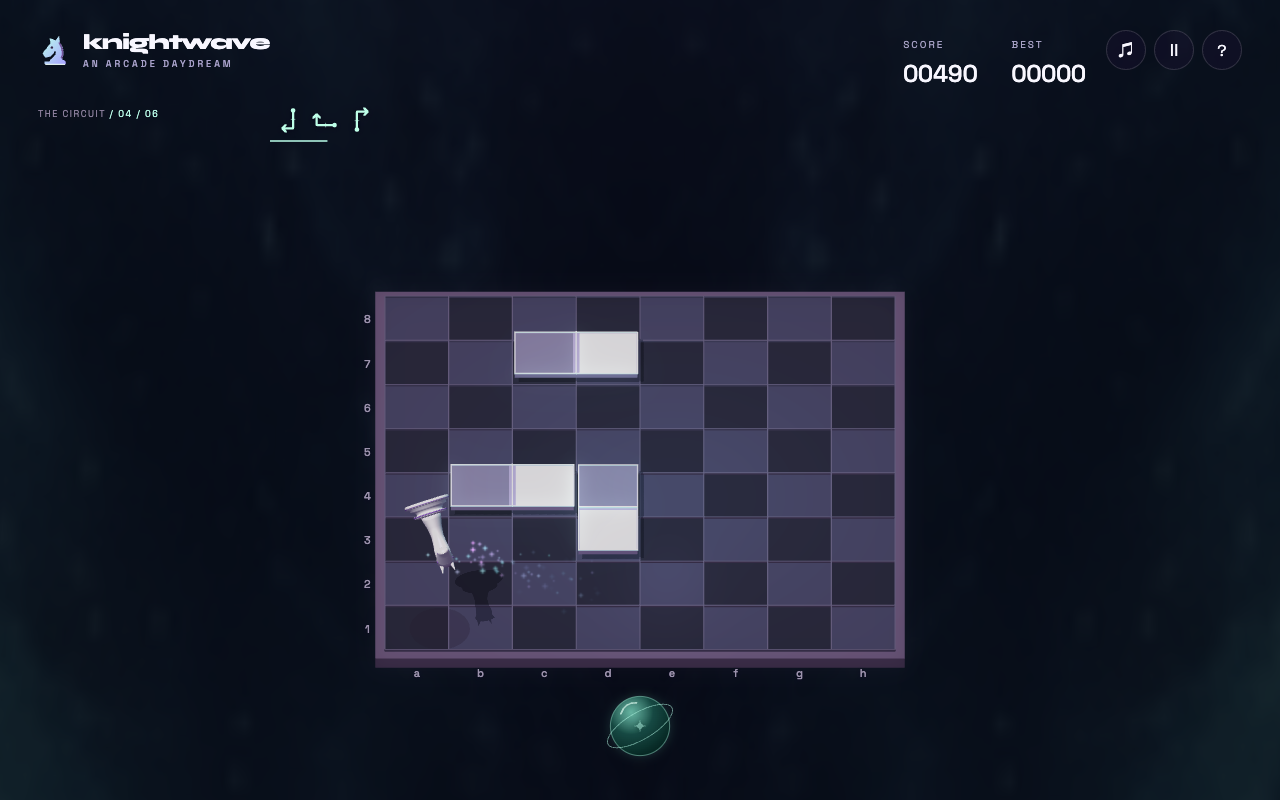
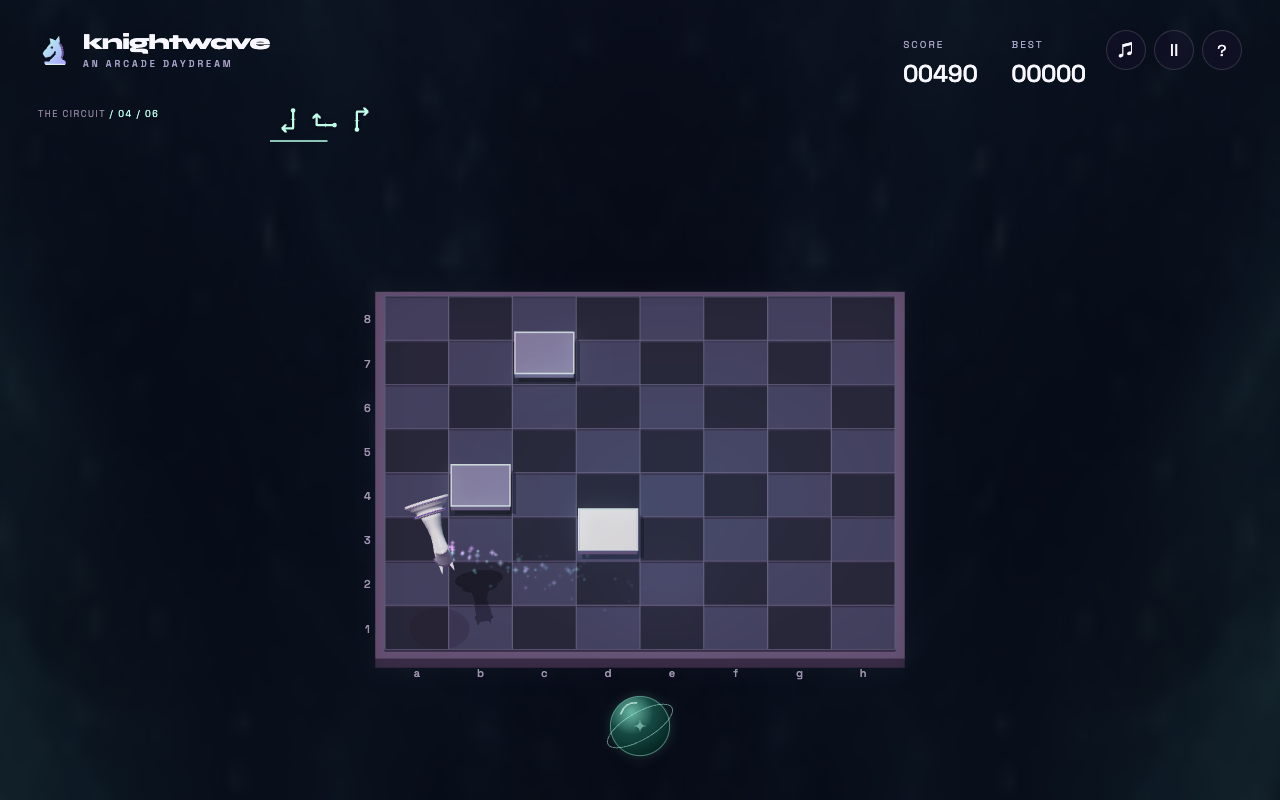
feat(game): simplify platforms to single chess squares

diff --git a/src/main.js b/src/main.js
@@ -18,7 +18,7 @@ import { Texture } from '@babylonjs/core/Materials/Textures/texture';
 import { ParticleSystem } from '@babylonjs/core/Particles/particleSystem';
 import { knightDestination, isLandingMatch, rotateGrid } from './rules.js';
 import { BOARD_MIN, BOARD_MAX, BOARD_CELLS, BOARD_CENTER, CELL_SIZE, createCircuit } from './board.js';
-import { PLATFORM_TOP, CRUISE_SPEED, platformStage, platformPose } from './platforms.js';
+import { PLATFORM_TOP, LANDING_DWELL, platformStage, platformPose } from './platforms.js';
 import {flightPose,trickPose} from './flight.js';
 import { moveGlyphs } from './moves.js';
 import { createKnight } from './knight.js';
@@ -86,7 +86,7 @@ jumpSparkles.blendMode=ParticleSystem.BLENDMODE_ADD;jumpSparkles.emitRate=0;jump
 const burstPieces=[];for(let i=0;i<20;i++){const m=MeshBuilder.CreateSphere('landing sparkle',{diameter:.16,segments:5},scene);m.material=i%2?mint:gold;m.setEnabled(false);burstPieces.push({mesh:m,velocity:new Vector3(),life:0});}
 const circuit=createCircuit(),premoves=new Premoves(circuit.length-1);
 let orbKick=0,sendFlash=0,orbScreen={x:0,y:0},gesture=null,progressElement=null;
-let mode='start',phase='cruise',current=0,selected=0,jumpTime=0,phaseTime=0,runTime=0,score=0,combo=0,landings=0,spinJuice=0,airDuration=1.25,tapKick=0,lastGuideKey='',lastLanding=null;
+let mode='start',phase='waiting',current=0,selected=0,jumpTime=0,phaseTime=0,runTime=0,score=0,combo=0,landings=0,spinJuice=0,airDuration=1.25,tapKick=0,lastGuideKey='',lastLanding=null;
 const GROUND=PLATFORM_TOP+.06;
 let best=0;try{best=Number(localStorage.getItem('knightwave-board-best')||0);}catch{}
 el('best').textContent=String(best).padStart(5,'0');
@@ -114,21 +114,17 @@ const platformAccent=material('platform edge','#b0e4d5',.55);
 const fallingAccent=material('departed platform rails','#ae6288',.25);
 const platforms=circuit.map((stop,i)=>{
   const root=new TransformNode('platform '+i,scene);root.position.set(stop.x*CELL_SIZE,PLATFORM_TOP,stop.z*CELL_SIZE);root.rotation.y=stop.heading;root.parent=board;
-  const length=stop.runLength*CELL_SIZE;
-  const deck=box('raised platform deck',3.7,.35,length+3.7,0,-.175,length/2,platformMaterials.occupied,root);
-  box('platform lift column',2.15,.55,length+2.1,0,-.625,length/2,platformMaterials.occupied,root);
+  const deck=box('raised platform deck',3.7,.35,3.7,0,-.175,0,platformMaterials.occupied,root);
+  box('platform lift column',2.15,.55,2.15,0,-.625,0,platformMaterials.occupied,root);
   const trims=[];
-  for(const side of [-1,1])trims.push(box('platform glow rail',.07,.07,length+3.7,side*1.86,.03,length/2,mint,root));
-  for(const z of [-1.85,length+1.85])trims.push(box('platform end rail',3.78,.07,.075,0,.03,z,mint,root));
-  for(let row=0;row<stop.runLength;row++)trims.push(box('raised square divider',3.78,.14,.08,0,.045,(row+.5)*CELL_SIZE,platformAccent,root));
-  const surfaces=[];
-  for(let row=0;row<=stop.runLength;row++){
-    const offset=rotateGrid({x:0,z:row},stop.heading),light=(stop.x+offset.x+stop.z+offset.z)%2!==0;
-    const square=box('raised chess square',3.58,.025,3.58,0,.01,row*CELL_SIZE,light?lightSquare:darkSquare,root);
-    square.receiveShadows=true;surfaces.push(square);glow.addExcludedMesh(square);
+  for(const side of [-1,1]){
+    trims.push(box('platform glow rail',.07,.07,3.7,side*1.86,.03,0,platformAccent,root));
+    trims.push(box('platform end rail',3.78,.07,.075,0,.03,side*1.85,platformAccent,root));
   }
+  const square=box('raised chess square',3.58,.025,3.58,0,.01,0,(stop.x+stop.z)%2!==0?lightSquare:darkSquare,root);
+  square.receiveShadows=true;glow.addExcludedMesh(square);
   for(const mesh of root.getChildMeshes())shadows.addShadowCaster(mesh);
-  return {root,deck,trims,surfaces,stage:null,age:0};
+  return {root,deck,trims,stage:null,age:0};
 });
 function updatePlatforms(dt,reset=false){
   for(let i=0;i<platforms.length;i++){
@@ -166,7 +162,7 @@ function fitBoardCamera(){
 function visible(id,on){el(id).classList.toggle('hidden',!on);}
 function setMode(next){mode=next;el('ui').className=mode==='start'?'start-mode':'playing-mode';visible('start-screen',mode==='start');visible('pause',mode==='playing'||mode==='paused');visible('run-label',mode!=='start');visible('touch-controls',mode==='playing');visible('move-queue',mode==='playing'||mode==='paused');visible('orb-send',mode==='playing'||mode==='paused');visible('gesture-caption',mode==='playing');}
 function start(){
-  premoves.reset();orbKick=0;sendFlash=0;gesture=null;current=0;lastLanding=null;selected=0;score=0;combo=0;landings=0;runTime=0;jumpTime=0;phaseTime=0;phase='cruise';trick.rotation.set(0,0,0);
+  premoves.reset();orbKick=0;sendFlash=0;gesture=null;current=0;lastLanding=null;selected=0;score=0;combo=0;landings=0;runTime=0;jumpTime=0;phaseTime=0;phase='waiting';trick.rotation.set(0,0,0);
   spinner.rotation.set(0,FORWARD_YAW,0);knight.scaling.setAll(1.38);tapKick=0;jumpSparkles.reset();jumpSparkles.start();airDuration=1.25;knight.position.copyFrom(worldCell(circuit[0]));
   el('score').textContent='00000';visible('modal',false);setMode('playing');audio.start().catch(()=>{});lastGuideKey='';updateGuides();updatePlatforms(0,true);fitBoardCamera();updateOrb(0);
 }
@@ -225,7 +221,7 @@ function modal(content){el('modal').innerHTML=`<div class="dialog" role="dialog"
 function pause(){if(mode==='playing'){setMode('paused');audio.stop();modal('<div class="eyebrow">TAKE A BREATHER</div><h2 id="dialog-title">Still in the groove.</h2><p>Your circuit will be right here.</p><button class="primary" id="resume">Keep riding <span>↗</span></button><button class="secondary" id="restart">Start a fresh run</button>');el('resume').onclick=resume;el('restart').onclick=start;}else if(mode==='paused')resume();}
 function resume(){visible('modal',false);setMode('playing');audio.start().catch(()=>{});el('world').focus();}
 function help(){const previous=mode;if(mode==='playing'){setMode('paused');audio.stop();}
-  modal('<div class="eyebrow">A KNIGHT TO REMEMBER</div><h2 id="dialog-title">Charge. Send. Jump.</h2><div class="how-steps"><span class="number">1</span><p>Bright platforms are raised and safe to land on. Dark squares sit below. Plan on the a–h, 1–8 chessboard.</p></div><div class="how-steps"><span class="number">2</span><p>Tap the left or right side, or use ← / →, to compose L moves in the energy orb between the controls. Two squares along the icon’s stem, one across its arrow. An opposite tap undoes a turn.</p></div><div class="how-steps"><span class="number">3</span><p>Swipe up or press Space to send one group for one platform. The orb clears for the next group. Your banner shows only moves you have sent; each divider separates platforms. You can also tap the orb to send.</p></div><div class="how-steps"><span class="number">4</span><p>The knight jumps at the edge using the next sent group. If none is ready, it waits for you. During a jump, compose later groups in the orb. Swipe down or press Backspace to clear a draft, then recall the last unstarted group. Escape pauses.</p></div><button class="primary" id="close-help">Got it <span>↗</span></button>');el('close-help').onclick=()=>{visible('modal',false);if(previous==='playing')resume();};}
+  modal('<div class="eyebrow">A KNIGHT TO REMEMBER</div><h2 id="dialog-title">Charge. Send. Jump.</h2><div class="how-steps"><span class="number">1</span><p>Bright platforms are raised and safe to land on. Dark squares sit below. Plan on the a–h, 1–8 chessboard.</p></div><div class="how-steps"><span class="number">2</span><p>Tap the left or right side, or use ← / →, to compose L moves in the energy orb between the controls. Two squares along the icon’s stem, one across its arrow. An opposite tap undoes a turn.</p></div><div class="how-steps"><span class="number">3</span><p>Swipe up or press Space to send one group for one platform. The orb clears for the next group. Your banner shows only moves you have sent; each divider separates platforms. You can also tap the orb to send.</p></div><div class="how-steps"><span class="number">4</span><p>The knight jumps from the center of its square using the next sent group. It pauses briefly after landing, and waits for you if no group is ready. During a jump, compose later groups in the orb. Swipe down or press Backspace to clear a draft, then recall the last unstarted group. Escape pauses.</p></div><button class="primary" id="close-help">Got it <span>↗</span></button>');el('close-help').onclick=()=>{visible('modal',false);if(previous==='playing')resume();};}
 function finish(won=false){
   setMode(won?'won':'over');jumpSparkles.emitRate=0;
   if(score>best){best=score;try{localStorage.setItem('knightwave-board-best',String(best));}catch{}el('best').textContent=String(best).padStart(5,'0');}
@@ -280,12 +276,10 @@ function update(dt){
   if(mode==='playing'){
     runTime+=dt;phaseTime+=dt;spinJuice=Math.max(0,spinJuice-dt*4);tapKick*=Math.exp(-dt*14);
     const origin=circuit[current];
-    if(phase==='cruise'){
-      const distance=Math.min(origin.runLength*CELL_SIZE,phaseTime*CRUISE_SPEED),offset=rotateGrid({x:0,z:distance},origin.heading);
-      knight.position.set(origin.x*CELL_SIZE+offset.x,GROUND+Math.sin(distance*2.6)*.025,origin.z*CELL_SIZE+offset.z);
-      spinner.rotation.y=FORWARD_YAW+origin.heading+tapKick;spinner.rotation.z=-tapKick*.25;spinner.rotation.x=-.06+Math.sin(distance*2.6)*.035;
-
-      if(distance>=origin.runLength*CELL_SIZE&&!beginJump()){phase='waiting';phaseTime=0;}
+    if(phase==='settle'){
+      knight.position.set(origin.x*CELL_SIZE,GROUND,origin.z*CELL_SIZE);
+      spinner.rotation.set(0,FORWARD_YAW+origin.heading+tapKick,-tapKick*.25);
+      if(phaseTime>=LANDING_DWELL&&!beginJump()){phase='waiting';phaseTime=0;}
     }else if(phase==='waiting'){
       knight.position.set(origin.launch.x*CELL_SIZE,GROUND+Math.sin(phaseTime*3)*.025,origin.launch.z*CELL_SIZE);spinner.rotation.y=FORWARD_YAW+origin.heading+tapKick;spinner.rotation.x=0;spinner.rotation.z=-tapKick*.25;
     }else if(phase==='air'){
@@ -300,19 +294,19 @@ function update(dt){
           lastLanding={x:knight.position.x,y:knight.position.y,z:knight.position.z};premoves.complete();current++;landings++;combo++;score+=100+combo*25+Math.abs(selected)*10;el('score').textContent=String(score).padStart(5,'0');
           burst();audio.land(combo);selected=0;trick.rotation.set(0,0,0);spinner.rotation.set(0,FORWARD_YAW+circuit[current].heading,0);updatePlatforms(0);
           if(current===circuit.length-1){finish(true);}
-          else{phase='cruise';phaseTime=0;lastGuideKey='';updateGuides();}
+          else{phase='settle';phaseTime=0;lastGuideKey='';updateGuides();}
         }else{phase='fall';phaseTime=0;audio.fall();}
       }
     }else if(phase==='fall'){knight.position.y-=dt*(6+phaseTime*12);if(phaseTime>.70)finish();}
   }
   if(mode==='playing'||mode==='start'||mode==='won'){
     updatePlatforms(dt);
-    const squash=phase==='cruise'?Math.max(0,1-phaseTime/.18)*.12:0;
+    const squash=phase==='settle'?Math.max(0,1-phaseTime/.18)*.12:0;
     knight.scaling.set(1.38*(1+squash/2),1.38*(1-squash),1.38*(1+squash/2));
     const abovePlatform=platforms.some((p,i)=>{
       if(!p.root.isEnabled()||p.stage==='falling'||p.root.position.y<PLATFORM_TOP-.1)return false;
-      const stop=circuit[i],local=rotateGrid({x:knight.position.x-stop.x*CELL_SIZE,z:knight.position.z-stop.z*CELL_SIZE},-stop.heading);
-      return Math.abs(local.x)<1.85&&local.z>-1.85&&local.z<stop.runLength*CELL_SIZE+1.85;
+      const stop=circuit[i];
+      return Math.abs(knight.position.x-stop.x*CELL_SIZE)<1.85&&Math.abs(knight.position.z-stop.z*CELL_SIZE)<1.85;
     });
     const surface=abovePlatform?PLATFORM_TOP+.05:-2.015,altitude=Math.max(0,knight.position.y-surface);
     shadow.position.set(knight.position.x,surface,knight.position.z);shadow.scaling.setAll(1.38+altitude*.06);
@@ -324,7 +318,7 @@ function update(dt){
 engine.runRenderLoop(()=>{const dt=Math.min(engine.getDeltaTime()/1000,.05);update(dt);scene.updateTransformMatrix();updateOrb(mode==='playing'?dt:0);scene.render();});
 scene.executeWhenReady(()=>{visible('loading',false);});
 document.fonts.ready.then(fitBoardCamera);
-const state=()=>({mode,phase,selected,draft:premoves.draft,draftHeading:premoves.draftHeading(circuit[current].heading),locked:premoves.locked,orb:{x:orbScreen.x,y:orbScreen.y,location:'ui'},target:circuit[current+1]?.turns,jump:landings+1,score,combo,landings,totalLandings:circuit.length-1,lastLanding,position:{x:knight.position.x,y:knight.position.y,z:knight.position.z},planning:phase==='waiting'?1:Math.min(1,phaseTime*CRUISE_SPEED/(circuit[current].runLength*CELL_SIZE)),airtime:jumpTime/airDuration,audio:{state:audio.ctx?.state,muted:audio.muted,steps:audio.step},fps:Math.round(engine.getFps()),meshes:scene.meshes.length,cellSize:CELL_SIZE,board:{min:BOARD_MIN,max:BOARD_MAX,cells:cells.length,extent:boardWidth/2},heading:circuit[current]?.heading,landingHeading:circuit[current+1]?.heading,launch:{x:circuit[current].launch.x*CELL_SIZE,z:circuit[current].launch.z*CELL_SIZE},landing:circuit[current+1]?{x:circuit[current+1].x*CELL_SIZE,z:circuit[current+1].z*CELL_SIZE}:null,render:{width:engine.getRenderWidth(),height:engine.getRenderHeight()},platforms:platforms.map((p,i)=>({index:i,stage:p.stage,height:p.root.position.y,visible:p.root.isEnabled()})),speed:CRUISE_SPEED,moveQueue:premoves.groups.map(g=>({...g})),camera:{x:camera.position.x,y:camera.position.y,z:camera.position.z,rotation:{x:camera.rotation.x,y:camera.rotation.y,z:camera.rotation.z},orthographic:camera.mode===Camera.ORTHOGRAPHIC_CAMERA},knightYaw:spinner.rotation.y,trick:{yaw:trick.rotation.y,roll:trick.rotation.z,pitch:trick.rotation.x},platformTop:PLATFORM_TOP,glow:glow.intensity,sparkles:jumpSparkles.getActiveCount()});
+const state=()=>({mode,phase,selected,draft:premoves.draft,draftHeading:premoves.draftHeading(circuit[current].heading),locked:premoves.locked,orb:{x:orbScreen.x,y:orbScreen.y,location:'ui'},target:circuit[current+1]?.turns,jump:landings+1,score,combo,landings,totalLandings:circuit.length-1,lastLanding,position:{x:knight.position.x,y:knight.position.y,z:knight.position.z},planning:phase==='waiting'?1:phase==='settle'?Math.min(1,phaseTime/LANDING_DWELL):0,airtime:jumpTime/airDuration,audio:{state:audio.ctx?.state,muted:audio.muted,steps:audio.step},fps:Math.round(engine.getFps()),meshes:scene.meshes.length,cellSize:CELL_SIZE,board:{min:BOARD_MIN,max:BOARD_MAX,cells:cells.length,extent:boardWidth/2},heading:circuit[current]?.heading,landingHeading:circuit[current+1]?.heading,launch:{x:circuit[current].launch.x*CELL_SIZE,z:circuit[current].launch.z*CELL_SIZE},landing:circuit[current+1]?{x:circuit[current+1].x*CELL_SIZE,z:circuit[current+1].z*CELL_SIZE}:null,render:{width:engine.getRenderWidth(),height:engine.getRenderHeight()},platforms:platforms.map((p,i)=>({index:i,stage:p.stage,height:p.root.position.y,visible:p.root.isEnabled()})),landingDwell:LANDING_DWELL,moveQueue:premoves.groups.map(g=>({...g})),camera:{x:camera.position.x,y:camera.position.y,z:camera.position.z,rotation:{x:camera.rotation.x,y:camera.rotation.y,z:camera.rotation.z},orthographic:camera.mode===Camera.ORTHOGRAPHIC_CAMERA},knightYaw:spinner.rotation.y,trick:{yaw:trick.rotation.y,roll:trick.rotation.z,pitch:trick.rotation.x},platformTop:PLATFORM_TOP,glow:glow.intensity,sparkles:jumpSparkles.getActiveCount()});
 // Observability for playtesting; actions are the same as keyboard and touch.
 window.knightwave={state,start,turn,dispatch,recall,pause,resume,mute,engine,scene};
 if(document.modelContext?.registerTool){

diff --git a/src/board.test.js b/src/board.test.js
@@ -24,8 +24,10 @@ test('every landing and intermediate L leg stays inside the finite board',()=>{
   assert.ok(!isOnBoard({x:BOARD_MAX+.01,z:0}));
 });
 
-test('raised runways do not intersect while upcoming platforms rise',()=>{
-  const rectangles=createCircuit().slice(0,-1).map(p=>({left:Math.min(p.x,p.launch.x)-.4625,right:Math.max(p.x,p.launch.x)+.4625,bottom:Math.min(p.z,p.launch.z)-.4625,top:Math.max(p.z,p.launch.z)+.4625}));
+test('single-square platforms launch from their centers and never overlap',()=>{
+  const stops=createCircuit();
+  for(const stop of stops)assert.deepEqual(stop.launch,{x:stop.x,z:stop.z,heading:stop.heading});
+  const rectangles=stops.slice(0,-1).map(p=>({left:p.x-.4625,right:p.x+.4625,bottom:p.z-.4625,top:p.z+.4625}));
   for(let i=0;i<rectangles.length;i++)for(const b of rectangles.slice(0,i)){
     const a=rectangles[i];
     assert.ok(!(a.left<b.right&&a.right>b.left&&a.bottom<b.top&&a.top>b.bottom));

diff --git a/src/board.js b/src/board.js
@@ -6,13 +6,12 @@ export const BOARD_CELLS=8;
 export const BOARD_CENTER=(BOARD_MIN+BOARD_MAX)/2;
 export const CELL_SIZE=4;
 export const CIRCUIT_TURNS=[1,2,-1,3,-2,-3];
-// Every platform has a one-square run-up; the raised decks never intersect.
+// Each platform occupies one chess square; jumps start at its center.
 export function createCircuit(){
   const stops=[{x:-1,z:0,heading:0,turns:0}];
   for(let i=0;i<=CIRCUIT_TURNS.length;i++){
-    const stop=stops[i],offset=rotateGrid({x:0,z:1},stop.heading);
-    stop.runLength=1;
-    stop.launch={x:stop.x+offset.x,z:stop.z+offset.z,heading:stop.heading};
+    const stop=stops[i];
+    stop.launch={x:stop.x,z:stop.z,heading:stop.heading};
     if(i<CIRCUIT_TURNS.length){
       const turns=CIRCUIT_TURNS[i];
       stops.push({...roadLanding({end:stop.launch,heading:stop.heading},turns,1),turns});

diff --git a/src/platforms.js b/src/platforms.js
@@ -1,5 +1,5 @@
 export const PLATFORM_TOP=-1.1;
-export const CRUISE_SPEED=5.2;
+export const LANDING_DWELL=.30;
 const clamp=value=>Math.max(0,Math.min(1,value));
 export function platformStage(index,current){
   return index<current?'falling':index===current?'occupied':index===current+1?'target':index===current+2?'rising':'future';

diff --git a/README.md b/README.md
@@ -22,17 +22,17 @@ Open the printed local URL. `npm run build` produces the standalone browser game
 - Press Space or swipe upward to dispatch the group for one upcoming platform. The draft clears so you can compose the next group. Tapping the orb is an alternative to the swipe.
 - The borderless banner contains only your dispatched premoves. Thin vertical dividers separate platform groups; it never displays the correct answer automatically. Icons show the actual orientation of their moves. Long queues scroll horizontally on touchscreens.
 - Each tap chains a quarter-turned knight move. Right destinations in grid units are `(1,2)`, `(3,1)`, `(2,-1)`, then `(0,0)`. Left mirrors the horizontal coordinate. The next group follows the previous group's final heading.
-- The knight rides along each platform at 5.2 world units per second. At the edge, it executes the next dispatched group. If no group is ready, it waits for you. Once takeoff begins, that group is locked; edits in the orb prepare future jumps. The banner underlines the executing group's flight progress and removes it at touchdown.
+- Each platform occupies one square. The knight jumps directly from its center using the next dispatched group, with a 0.30-second settling pause between queued jumps. If no group is ready, it waits for you. Once takeoff begins, that group is locked; edits in the orb prepare future jumps. The banner underlines the executing group's flight progress and removes it at touchdown.
 - Swipe down or press Backspace to clear an unsent draft, then recall the last unstarted group for correction. A group already in flight cannot be recalled. Empty sends are ignored, and a full six-platform queue cannot accept extra groups.
 - Escape or the pause button pauses; M toggles sound. Space starts or retries when outside a run. A wrong dispatched move ends the attempt; six correct landings complete the circuit. Both outcomes offer immediate retry.
-- Platforms rise ahead and fall behind. Board trails, route arrows and landing-preview rings are absent. Every L leg fits within the board, and raised runways do not intersect. The circuit is in `src/board.js`.
+- Platforms rise ahead and fall behind. Board trails, route arrows and landing-preview rings are absent. Every L leg fits within the board, and single-square platforms do not overlap. The circuit is in `src/board.js`.
 - The best circuit score is stored on this device under `knightwave-board-best` when storage is available.
 
 The interaction refinement and primary research sources are recorded in [the premove orb design notes](docs/design/premove-orb.md).
 
 ## Graphics and audio
 
-The camera is fixed above the front edge at roughly 44 degrees with orthographic projection. Files stay horizontal and ranks stay vertical on screen, so the board keeps its chess orientation while height remains visible. The checkerboard uses 64 recessed squares in two dark tones and standard chess coordinates. Eighteen shared physical rails form a raised rim around every square; raised platforms have brighter tops, side faces and a divider rim between their two squares. Responsive framing keeps the board, move strip and controls apart on desktop, portrait phones and landscape screens.
+The camera is fixed above the front edge at roughly 44 degrees with orthographic projection. Files stay horizontal and ranks stay vertical on screen, so the board keeps its chess orientation while height remains visible. The checkerboard uses 64 recessed squares in two dark tones and standard chess coordinates. Eighteen shared physical rails form a raised rim around every square; raised platforms have brighter tops, side faces and rims around each single square. Responsive framing keeps the board, move strip and controls apart on desktop, portrait phones and landscape screens.
 
 `src/knight.js` builds an original porcelain chess knight from sculpted neck and muzzle sections, paired ears, eyes, a carved mane and a turned pedestal. It follows rounded airborne bends, rocks immediately on input and briefly compresses on landing. A centered trick pivot adds a complete shuv-it, a barrel roll for longer chains, and a double spin for three or more L moves. Tricks settle before touchdown, facing the next platform; chess landing coordinates remain exact. A directional light casts soft shadows from the knight and decks onto the board; a separate shadow directly beneath the piece makes its ground position readable throughout flight. The 4.8-unit jump arc visibly lifts the whole piece, and a slim underline on the executing premove group tracks flight progress without revealing a route. Jump sparkles use a dedicated star texture and particle system. The mark, favicon and L glyphs are hand-drawn vector assets; the earlier `public/knight-piece.svg` remains as source artwork.
 
@@ -46,7 +46,7 @@ The original soundtrack, *Stardust Overdrive*, is synthesized in Web Audio: four
 
 ## Verification
 
-`npm test` checks chained movement, mirrored turns, corrections, exact L trajectories, rotated landing directions, circuit closure, bounded paths, nonintersecting runways, platform rise/fall lifecycles and exact agreement between each rotated/mirrored icon and its physical L legs.
+`npm test` checks chained movement, mirrored turns, corrections, exact L trajectories, rotated landing directions, circuit closure, bounded paths, single-square platforms without overlaps, platform rise/fall lifecycles and exact agreement between each rotated/mirrored icon and its physical L legs.
 
 `src/premoves.test.js` checks draft isolation, FIFO dispatch, group orientations, flight locking, recall, empty/full queue boundaries and swipe discrimination. `src/flight.test.js` verifies exact endpoints, mirrored rounded routes, continuous heading, steady travel speed and complete tricks that settle before touchdown.
 

diff --git a/docs/design/premove-orb.md b/docs/design/premove-orb.md
@@ -6,7 +6,7 @@ The player composes one platform's chained knight move in a fixed UI orb, dispat
 
 - [Nielsen Norman Group: Visual Hierarchy](https://www.nngroup.com/articles/visual-hierarchy-ux-definition/) recommends directing attention with relative contrast, scale and grouping. It specifically describes grouping by proximity and whitespace, and sparing use of enclosing containers. Application: a dark recessed chessboard, bright raised decks, and a single borderless row of premoves separated by narrow ticks.
 - [Apple: Design advanced games for Apple platforms](https://developer.apple.com/videos/play/wwdc2024/10085/) discusses adapting controls for touch and using visual feedback that remains visible when a finger covers a control. Application: side taps charge a separate UI orb between the controls; a launch animation acknowledges dispatch.
-- [Game Accessibility Guidelines: Simple controls](https://gameaccessibilityguidelines.com/ensure-controls-are-as-simple-as-possible-or-provide-a-simpler-alternative/) advises reducing unnecessary input complexity. Application: left, right and dispatch on every device; upward swipe has a tap-button alternative, and a player can compose while safely waiting at an edge.
+- [Game Accessibility Guidelines: Simple controls](https://gameaccessibilityguidelines.com/ensure-controls-are-as-simple-as-possible-or-provide-a-simpler-alternative/) advises reducing unnecessary input complexity. Application: left, right and dispatch on every device; upward swipe has a tap-button alternative, and a player can compose while safely waiting on a square.
 
 These sources inform the design; the orb metaphor and dispatch behavior are decisions specific to Knightwave, not experimentally validated claims about children.
 
@@ -16,7 +16,7 @@ These sources inform the design; the orb metaphor and dispatch behavior are deci
 2. Space, an upward swipe, or a tap on the orb sends one nonempty group to the banner and clears the orb. An empty dispatch is ignored. Each group corresponds to exactly one upcoming platform.
 3. Groups show their actual world orientation, derived from the previous committed group's final heading. Thin vertical dividers express dispatch boundaries. No NOW heading, answer strip, panel background or boxed icons.
 4. A group locks at takeoff. It stays visible during flight, with a small progress underline, and disappears at touchdown. The next draft can be composed during this flight.
-5. At an edge without a committed group the knight waits, with a gentle bob. Dispatch resumes motion. A wrong dispatched move still misses; plan using the raised platforms.
+5. On a square without a committed group the knight waits, with a gentle bob. Dispatch resumes motion. A wrong dispatched move still misses; plan using the raised platforms.
 6. Backspace or a downward swipe recalls the last unstarted group into the orb, so an accidental commit can be corrected. Escape or the pause button pauses.
 7. A swipe must be predominantly vertical and cover a meaningful distance; a drag or canceled gesture must not accidentally append or dispatch a move. Touch-side feedback remains immediate.
 
@@ -24,9 +24,10 @@ These sources inform the design; the orb metaphor and dispatch behavior are deci
 
 - Maintain the fixed front-facing 3D camera, aligned chess axes and high-resolution sculpted knight.
 - Recessed squares use two dark, low-saturation tones. Raised decks retain bright chess surfaces, shallow side faces and shadows. Their tops sit 0.925 world units above the floor, keeping the board recognizable. Brightness denotes elevation, not whether an answer is correct.
-- A physical raised rim traces every square, including the seam between the two squares on each raised deck. Floor rims remain subtle; platform rims read more clearly.
+- A physical raised rim traces every square, with each raised platform occupying exactly one square. Floor rims remain subtle; platform rims read more clearly.
 - The energy orb is a shaded SVG sphere and orbit fixed below the board between the controls. Landscape places it beside the board. Crisp L glyphs show the editable draft; only charge and dispatch animate the orb. It has no enclosing panel and occupies no game-world space.
 - The premove row occupies roughly one icon height on phones. Turn and dispatch controls have comfortable invisible hit areas around small graphics, without large button panels.
+- Jumps depart from square centers without a run-up. A 0.30-second pause makes each queued landing readable before the next jump.
 - Scene lighting and glow remain constant. Local landing sparkles replace full-screen flashes.
 - Airborne L corners are rounded at a 0.28-square radius with steady arc-length travel; exact landing squares and final headings stay unchanged. The committed chain determines full spins and barrel rolls around a centered model pivot, finishing before touchdown.
 - Validate all six landings and capture charging, dispatch, flight, waiting, recall, rising/falling decks and compact/landscape layouts. Automated checks are followed by screenshot inspection.
